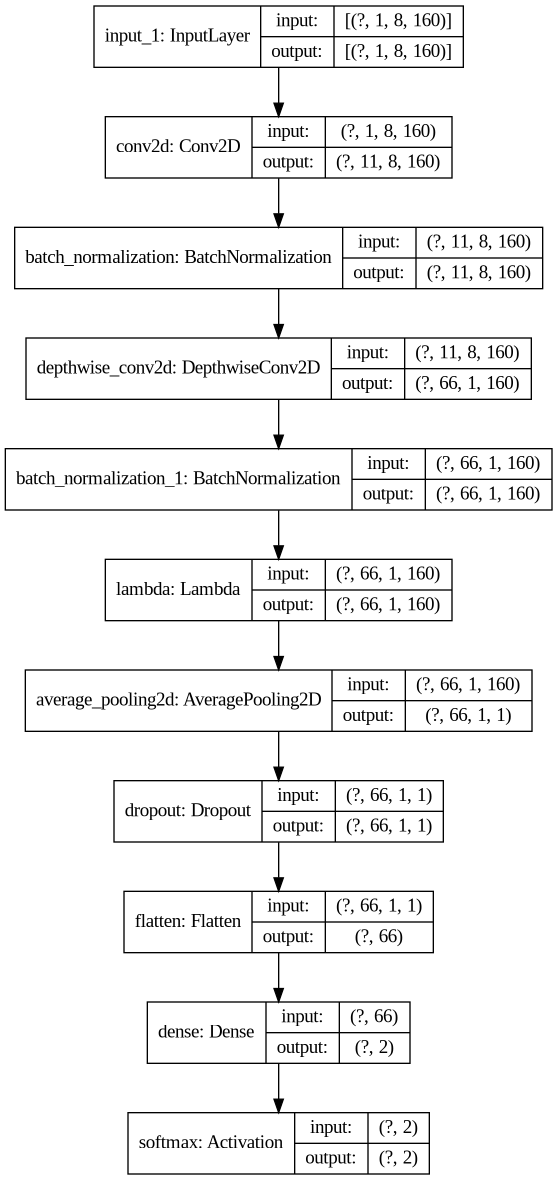
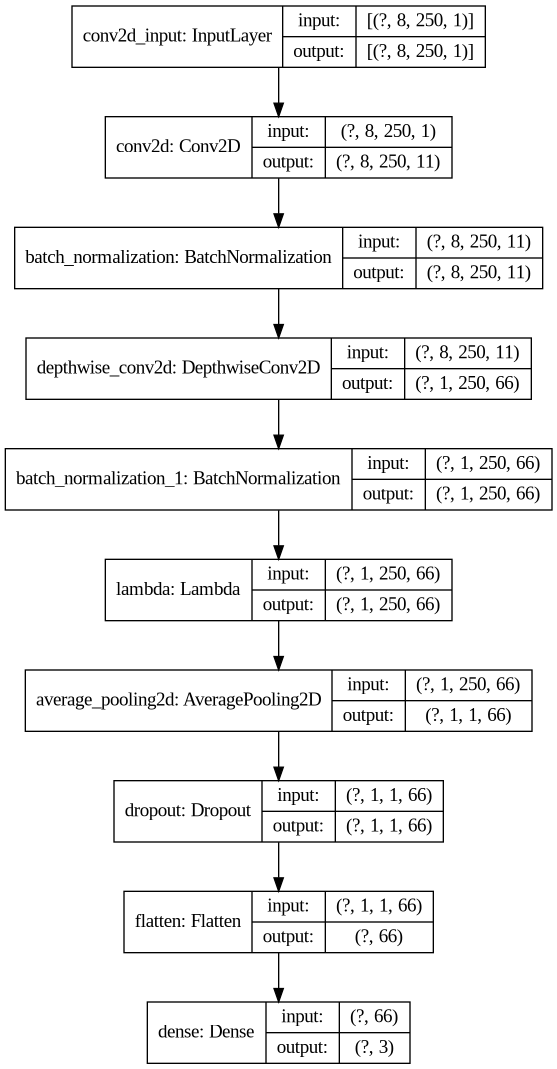
Added new live test environment with exponential moving average and brainflow acquisitions

Changed region(s): [[0.0, 0.0, 1.0, 1.0], [0.0305, 0.2778, 0.061, 0.3087]]

diff --git a/live_test_brainflow.py b/live_test_brainflow.py
@@ -1,0 +1,158 @@
+# This is intended for OpenBCI Cyton Board,
+# check: https://brainflow.readthedocs.io for other boards
+
+from brainflow import BoardShim, BrainFlowInputParams, BoardIds
+from matplotlib import pyplot as plt
+from timeit import default_number as timer
+from dataset_tools import ACTIONS
+
+import numpy as np
+import threading
+import argparse
+import keras
+import time
+import cv2
+import os
+
+
+class Shared:
+    def __init__(self):
+        self.sample = None
+        self.key = None
+
+
+class GraphicalInterface:
+    # huge thanks for the GUI to @Sentdex: https://github.com/Sentdex/BCI
+    def __init__(self, WIDTH=500, HEIGHT=500, SQ_SIZE=40, MOVE_SPEED=2):
+        self.WIDTH = WIDTH
+        self.HEIGHT = HEIGHT
+        self.SQ_SIZE = SQ_SIZE
+        self.MOVE_SPEED = MOVE_SPEED
+
+        self.square = {'x1': int(int(WIDTH) / 2 - int(SQ_SIZE / 2)),
+                       'x2': int(int(WIDTH) / 2 + int(SQ_SIZE / 2)),
+                       'y1': int(int(HEIGHT) / 2 - int(SQ_SIZE / 2)),
+                       'y2': int(int(HEIGHT) / 2 + int(SQ_SIZE / 2))}
+
+        self.box = np.ones((self.square['y2'] - self.square['y1'],
+                            self.square['x2'] - self.square['x1'], 3)) * np.random.uniform(size=(3,))
+        self.horizontal_line = np.ones((HEIGHT, 10, 3)) * np.random.uniform(size=(3,))
+        self.vertical_line = np.ones((10, WIDTH, 3)) * np.random.uniform(size=(3,))
+
+
+#############################################################
+
+def acquire_signals():
+    while True:
+        with mutex:
+            # print("acquisition_phase")
+
+            board.start_stream()  # use this for default options
+            time.sleep(0.2)
+            # get_current_board_data does not remove data from board internal buffer
+            # thus allowing us to acquire overlapped data and compute more classification over 1 sec
+            data = board.get_current_board_data(250)
+            board.stop_stream()
+
+            sample = []
+            eeg_channels = BoardShim.get_eeg_channels(BoardIds.CYTON_BOARD.value)
+            for channel in eeg_channels:
+                sample.append(data[channel])
+
+            shared_vars.sample = np.array(sample)
+
+            if shared_vars.key == ord("q"):
+                break
+
+            # print("sample_acquired")
+
+
+def compute_signals():
+    MODEL_NAME = "models/100.0-1epoch-1600593706-loss-0.0.model"
+    model = keras.models.load_model(MODEL_NAME)
+    count_down = 40  # restarts the GUI when reaches 0
+    EMA = np.zeros(-1)  # exponential moving average over the probabilities of the model
+    alpha = 0.3  # coefficient for the EMA
+    gui = GraphicalInterface()
+
+    while True:
+        with mutex:
+            # print("computing_phase")
+
+            if count_down == 0:
+                gui = GraphicalInterface()
+                count_down = 40
+
+            env = np.zeros((gui.WIDTH, gui.HEIGHT, 3))
+
+            # prediction on the task
+            nn_input = shared_vars.sample.reshape(1, 8, 250, 1)  # 4D Tensor
+            nn_out = model.predict(nn_input)
+
+            # computing exponential moving average
+            if EMA[0] == -1:  # if this is the first iteration (base case)
+                for i in range(len(EMA)):
+                    EMA[i] = nn_out[i]
+            else:
+                for i in range(len(EMA)):
+                    EMA[i] = alpha * nn_out[i] + (1 - alpha) * EMA[i]
+
+            predicted_action = ACTIONS[np.argmax(EMA)]
+
+            if EMA[np.argmax(EMA)] > 0.7:  # only choosing confident predictions
+                if predicted_action == "hands":
+                    gui.square['y1'] += gui.MOVE_SPEED
+                    gui.square['y2'] += gui.MOVE_SPEED
+                elif predicted_action == "feet":
+                    gui.square['y1'] -= gui.MOVE_SPEED
+                    gui.square['y2'] -= gui.MOVE_SPEED
+
+                count_down -= 1
+
+            env[:, gui.HEIGHT // 2 - 5:gui.HEIGHT // 2 + 5, :] = gui.horizontal_line
+            env[gui.WIDTH // 2 - 5:gui.WIDTH // 2 + 5, :, :] = gui.vertical_line
+            env[gui.square['y1']:gui.square['y2'], gui.square['x1']:gui.square['x2']] = gui.box
+
+            cv2.imshow('', env)
+
+            end = timer()
+            print("\rFPS: ", 1 // (end - start), end='')
+            start = timer()
+
+            shared_vars.key = cv2.waitKey(1) & 0xFF
+            if shared_vars.key == ord("q"):
+                cv2.destroyAllWindows()
+                break
+
+            # time.sleep(0.3)
+
+
+#############################################################
+
+if __name__ == '__main__':
+    parser = argparse.ArgumentParser()
+    parser.add_argument('--serial-port', type=str, help='serial port',
+                        required=False, default='/dev/ttyUSB0')
+
+    # if you are on Linux remember to give permission to access the port:
+    # sudo chmod 666 /dev/ttyUSB0
+    # or change the user group
+    # check BrainFlow documentation for Windows configs
+
+    args = parser.parse_args()
+    params = BrainFlowInputParams()
+    params.serial_port = args.serial_port
+
+    board = BoardShim(BoardIds.CYTON_BOARD.value, params)
+    board.prepare_session()
+
+    shared_vars = Shared()
+    mutex = threading.Lock()
+
+    acquisition = threading.Thread(target=acquire_signals)
+    acquisition.start()
+    computing = threading.Thread(target=compute_signals)
+    computing.start()
+
+    acquisition.join()
+    computing.join()

diff --git a/live_test.py b/live_test.py
@@ -1,5 +1,4 @@
 from pylsl import StreamInlet, resolve_stream
-from dataset_tools import gaussian_filter
 import numpy as np
 import time
 import cv2
@@ -7,6 +6,8 @@ import keras
 import threading
 from matplotlib import pyplot as plt
 
+# DEPRECATED: USE live_test_brainflow.py
+# this will become an FFT version for another model
 
 # The usage of 2 threads is required if continuous data flow from the
 # LSL StreamInlet is wanted, so the threads can be timed without interfering with the StreamInlet
@@ -76,8 +77,6 @@ def compute_signals():
             for i in range(len(sample)):
                 sample[i] -= sample[i].mean()
                 sample[i] /= sample[i].std()
-
-            sample *= gaussian_filter()
 
             nn_input = sample.reshape((1, 8, 90, 1))
             nn_out = model.predict(nn_input)

diff --git a/training.py b/training.py
@@ -13,6 +13,7 @@ from dataset_tools import split_data, standardize, load_data, preprocess_raw_eeg
 from neural_nets import cris_net, res_net, TA_CSPNN
 
 import numpy as np
+import keras
 import time
 
 
@@ -110,7 +111,7 @@ def main():
                   optimizer='adam',
                   metrics=['accuracy'])
 
-    # tf.keras.utils.plot_model(model, "pictures/net.png", show_shapes=True)
+    keras.utils.plot_model(model, "pictures/net.png", show_shapes=True)
 
     batch_size = 5
     epochs = 110
